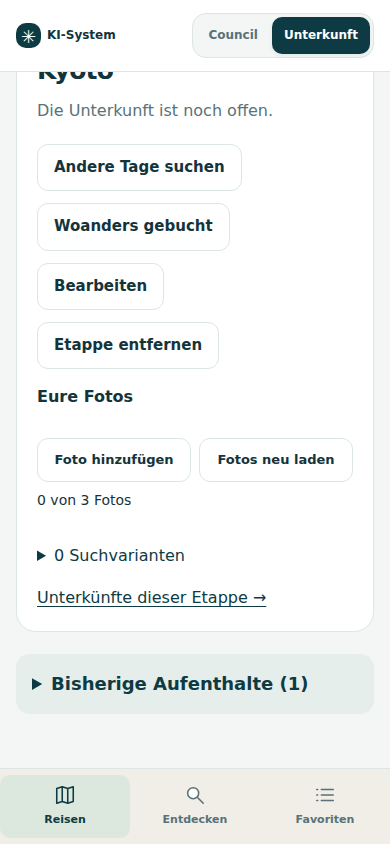
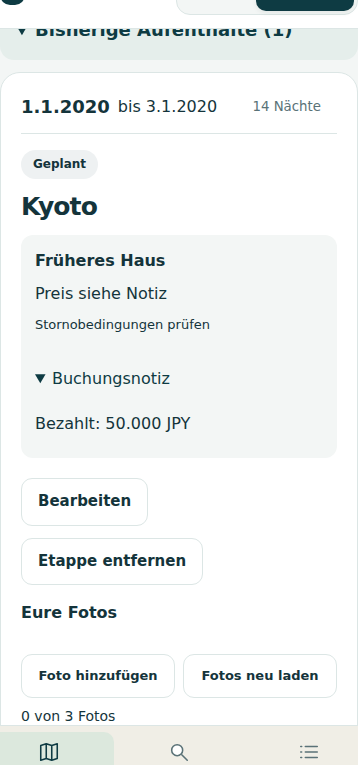
fix: simplify past stays and batch trip photo reads

diff --git a/stay-trips.js b/stay-trips.js
@@ -54,13 +54,15 @@ async function viewReisen(arg){
   const now=new Date(),today=[now.getFullYear(),String(now.getMonth()+1).padStart(2,'0'),String(now.getDate()).padStart(2,'0')].join('-');
   const pastStages=stages.filter(e=>e.abreise<today),past=el('details',{class:'past-stays',open:pastWasOpen},el('summary',{},'Bisherige Aufenthalte ('+pastStages.length+')'));
   const confirmed=stages.filter(e=>e.status!=='vorschlag'&&e.abreise>=today);
-  for(const e of stages){const b=e.buchung,card=el('article',{class:'trip-stage','data-stage':e.id});
+  const initialPhotos=stages.length?tripCall('unterkunft_fotos_lesen',{reise_id:rid}).then(r=>{if(!Array.isArray(r.fotos))throw Error('Fotos nicht vollständig lesbar.');return r.fotos;}):null;
+  initialPhotos?.catch(()=>{}); // Components show read errors; navigation may detach all of them.
+  for(const e of stages){const isPast=e.abreise<today,b=e.buchung,card=el('article',{class:'trip-stage','data-stage':e.id});
    card.append(el('div',{class:'stage-date'},el('strong',{},fmtDate(e.anreise)),el('span',{},'bis '+fmtDate(e.abreise)),el('small',{},(e.naechte??'–')+' Nächte')),
     el('div',{class:'stage-main'},el('span',{class:'trip-status '+e.status},{vorschlag:'Vorschlag · noch bestätigen',geplant:'Geplant',gebucht:'Gebucht'}[e.status]||'Status offen'),el('h3',{},e.ziel),b?el('div',{class:'booking-summary'},el('strong',{},b.name||'Unterkunft'),el('p',{},b.zimmer||''),el('p',{},b.preis_gesamt_eur==null?(b.notiz?'Preis siehe Notiz':'Preis nicht eingetragen'):sucheEuro(b.preis_gesamt_eur)+' gesamt'),el('p',{class:'storno'},tripStorno(b)),b.notiz?el('details',{},el('summary',{},'Buchungsnotiz'),el('p',{class:'booking-note'},b.notiz)):null):el('p',{class:'muted'},'Die Unterkunft ist noch offen.'),
-    el('div',{class:'actions'},e.status==='vorschlag'?el('button',{class:'primary',onclick:()=>change(e,{status:'geplant'})},'Vorschlag bestätigen'):null,el('button',{onclick:()=>tripStart(e)},'Andere Tage suchen'),el('button',{onclick:()=>tripExternalBooking(e,load)},'Woanders gebucht'),el('button',{onclick:()=>tripEdit(e,load)},'Bearbeiten'),el('button',{onclick:()=>tripDelete('etappe',e.id,load)},e.status==='vorschlag'?'Vorschlag verwerfen':'Etappe entfernen'))));
+    el('div',{class:'actions'},!isPast&&e.status==='vorschlag'?el('button',{class:'primary',onclick:()=>change(e,{status:'geplant'})},'Vorschlag bestätigen'):null,!isPast?el('button',{onclick:()=>tripStart(e)},'Andere Tage suchen'):null,!isPast?el('button',{onclick:()=>tripExternalBooking(e,load)},'Woanders gebucht'):null,el('button',{onclick:()=>tripEdit(e,load)},'Bearbeiten'),el('button',{onclick:()=>tripDelete('etappe',e.id,load)},e.status==='vorschlag'?'Vorschlag verwerfen':'Etappe entfernen'))));
    const searches=el('details',{open:expanded.has(e.id)},el('summary',{},(e.suchen||[]).length+' Suchvarianten'));
    for(const s of e.suchen||[]){const active=s.id===e.aktive_suche_id;searches.append(el('div',{class:'trip-variant'},el('a',{href:'#/suche/'+s.id},`${fmtDate(s.anreise)}–${fmtDate(s.abreise)} · ${s.status}`),active?el('strong',{},'Aktuelle Variante'):el('button',{onclick:()=>change(e,{aktive_suche_id:s.id})},'Diese Tage verwenden'),el('button',{onclick:()=>tripDelete('suchauftrag',s.id,load)},'Suche entfernen')));}
-   card.querySelector('.stage-main').append(tripPhotos(e.id,live,{lazy:e.abreise<today}),searches,el('a',{href:'#/etappe/'+e.id},'Unterkünfte dieser Etappe →'));if(e.abreise<today)past.append(card);else if(e.status==='vorschlag')proposals.append(card);else {
+   card.querySelector('.stage-main').append(tripPhotos(e.id,live,{initialPhotos}),...(!isPast?[searches,el('a',{href:'#/etappe/'+e.id},'Unterkünfte dieser Etappe →')]:[]));if(e.abreise<today)past.append(card);else if(e.status==='vorschlag')proposals.append(card);else {
     const before=confirmed[confirmed.indexOf(e)-1];
     for(const gap of snapshot.luecken||[]){if(before&&gap.zwischen?.[0]===before.id&&gap.zwischen?.[1]===e.id)timeline.append(el('div',{class:'trip-gap','data-gap-from':before.id,'data-gap-to':e.id},`${before.ziel} → ${e.ziel}: `+(gap.text||`${gap.naechte} Nächte noch offen`)));}
     timeline.append(card);

diff --git a/stay-photos.js b/stay-photos.js
@@ -11,7 +11,7 @@ async function tripPhotoPrepare(file){
   return {mime:'image/jpeg',daten_base64:data,breite:canvas.width,hoehe:canvas.height};
  }finally{URL.revokeObjectURL(source);}
 }
-function tripPhotos(etappeId,live,{lazy=false}={}){
+function tripPhotos(etappeId,live,{initialPhotos=null}={}){
  const node=el('section',{class:'stay-photos','aria-label':'Fotos zum Aufenthalt','data-stay-photos':etappeId}),list=el('div',{class:'stay-photo-strip'}),message=el('p',{class:'small',role:'status'});
  const input=el('input',{type:'file',accept:'image/*','aria-label':'Foto für Aufenthalt '+etappeId+' auswählen',class:'photo-file-input'});
  const add=el('button',{type:'button',onclick:()=>input.click()},'Foto hinzufügen'),reload=el('button',{type:'button',onclick:()=>load(true)},'Fotos neu laden');
@@ -25,8 +25,8 @@ function tripPhotos(etappeId,live,{lazy=false}={}){
  function draw(){list.replaceChildren(...photos.map(p=>el('figure',{},el('button',{type:'button','aria-label':'Foto groß öffnen',onclick:()=>show(p)},photoImage(p)),el('button',{type:'button',onclick:()=>remove(p)},'Foto löschen'))));controls();
   if(viewer){const p=photos.find(p=>p.foto_id===viewedId);if(p)viewer.body.replaceChildren(photoImage(p));else viewer.d.close();}
  }
- async function load(manual=false){if(pending||!active())return;pending=true;if(manual)refreshUsed=false;controls();message.textContent='Fotos werden geladen …';
-  try{const r=await tripCall('unterkunft_fotos_lesen',{etappe_id:etappeId});if(!active())return;if(!Array.isArray(r.fotos)||r.fotos.length>3||r.fotos.some(p=>!tripId(p.foto_id)||p.etappe_id!==etappeId||!url(p.url)))throw Error('Fotos nicht vollständig lesbar.');photos=r.fotos;loaded=true;uncertain=false;message.textContent=photos.length+' von 3 Fotos';draw();}
+ async function load(manual=false,initial=false){if(pending||!active())return;pending=true;if(manual)refreshUsed=false;controls();message.textContent='Fotos werden geladen …';
+  try{const r=initial&&initialPhotos?{fotos:(await initialPhotos).filter(p=>p.etappe_id===etappeId)}:await tripCall('unterkunft_fotos_lesen',{etappe_id:etappeId});if(!active())return;if(!Array.isArray(r.fotos)||r.fotos.length>3||r.fotos.some(p=>!tripId(p.foto_id)||p.etappe_id!==etappeId||!url(p.url)))throw Error('Fotos nicht vollständig lesbar.');photos=r.fotos;loaded=true;uncertain=false;message.textContent=photos.length+' von 3 Fotos';draw();}
   catch(e){if(active())message.textContent=e.message;}
   finally{pending=false;if(active())controls();}
  }
@@ -41,6 +41,6 @@ function tripPhotos(etappeId,live,{lazy=false}={}){
    finally{pending=false;close.disabled=false;cancel.disabled=false;if(active())controls();}
   }},'Endgültig löschen'),cancel=el('button',{type:'button',onclick:()=>d.close()},'Abbrechen');body.append(el('p',{},'Dieses Foto aus dem Aufenthalt entfernen?'),cancel,yes);d.addEventListener('cancel',e=>{if(pending)e.preventDefault();});}
  controls();
- queueMicrotask(()=>{if(!active())return;const details=node.closest('details');if(lazy&&details&&!details.open){details.addEventListener('toggle',()=>{if(details.open&&!loaded)void load();});}else void load();});
+ queueMicrotask(()=>{if(active())void load(false,true);});
  return node;
 }

diff --git a/docs/W88-ABNAHME.md b/docs/W88-ABNAHME.md
@@ -6,9 +6,13 @@ Eigener PR nach PR14-Veröffentlichung, App 0.21.0 / Cache v33. Serververtrag au
 - Browser dekodiert das Original; Canvas erzeugt JPEG mit Qualität 0,82 und längster Seite höchstens 1600 Pixel. Grenze 3 MB nach Umwandlung. Bei nicht unterstütztem HEIC verständlicher Hinweis auf JPEG/PNG; kein universeller HEIC-Decoder behauptet.
 - Kurzlebige HTTPS-Bildlinks nur im Arbeitsspeicher. Kein LocalStorage/IndexedDB oder Service-Worker-Cache für Fotos. Bildfehler stößt höchstens eine automatische Neulesung an; manuelles Neulesen bleibt möglich.
 - Unklare Upload-/Löschantwort sperrt weitere Änderungen bis zum Neulesen. Keine automatische Wiederholung eines Uploads.
-- Vergangene Aufenthalte (Abreise vor lokalem heutigen Kalenderdatum) standardmäßig unter „Bisherige Aufenthalte (n)“ eingeklappt. Deren Fotos werden erst beim Öffnen gelesen. Aktuelle/künftige bleiben oben; vergangene Vorschläge wandern ebenfalls in den Verlauf.
+- Vergangene Aufenthalte (Abreise vor lokalem heutigen Kalenderdatum) standardmäßig unter „Bisherige Aufenthalte (n)“ eingeklappt. Eine gemeinsame Fotoabfrage mit reise_id verteilt die Bilder auf alle Aufenthalte, auch eingeklappte. Nach Upload/Löschen oder bei Bildfehler wird nur die betroffene Etappe neu gelesen. Aktuelle/künftige bleiben oben; vergangene Vorschläge wandern ebenfalls in den Verlauf.
 - Leerer EUR-Preis mit vorhandener Buchungsnotiz: „Preis siehe Notiz“, Notiz aufklappbar. Keine erfundenen Euro-Umrechnungen.
 
 Browserprüfungen mit synthetischen Daten: Verlauf, Notizpreis, Bildverkleinerung (2400×1200 → 1600×800 JPEG), Dreiergrenze, Großansicht, Abbruch/Bestätigung beim Löschen, abgelaufener Link, verlorene Uploadantwort und lesende Wiederaufnahme. Kein persönliches Foto hochgeladen oder gelöscht. iPhone-HEIC-Dekodierung ist vom Browser abhängig und noch nicht auf einem physischen Gerät geprüft.
 
 Screenshots: `previews/w88-fotos-mobile.png`, `previews/w88-vergangene-mobile.png` (synthetische Testbilder).
+
+## Nachprüfung 347/348
+
+Vergangene Aufenthalte zeigen keine Suche, externe Neubuchung, Suchvarianten oder Unterkunftsliste mehr; erhalten bleiben Buchung/Notiz/Fotos sowie Bearbeiten/Entfernen. Browsertests prüfen eine einzige Reiseabfrage, eindeutige Bildverteilung auf drei Etappen einschließlich Vergangenheit und gezieltes Neulesen nach Upload/Löschen.
